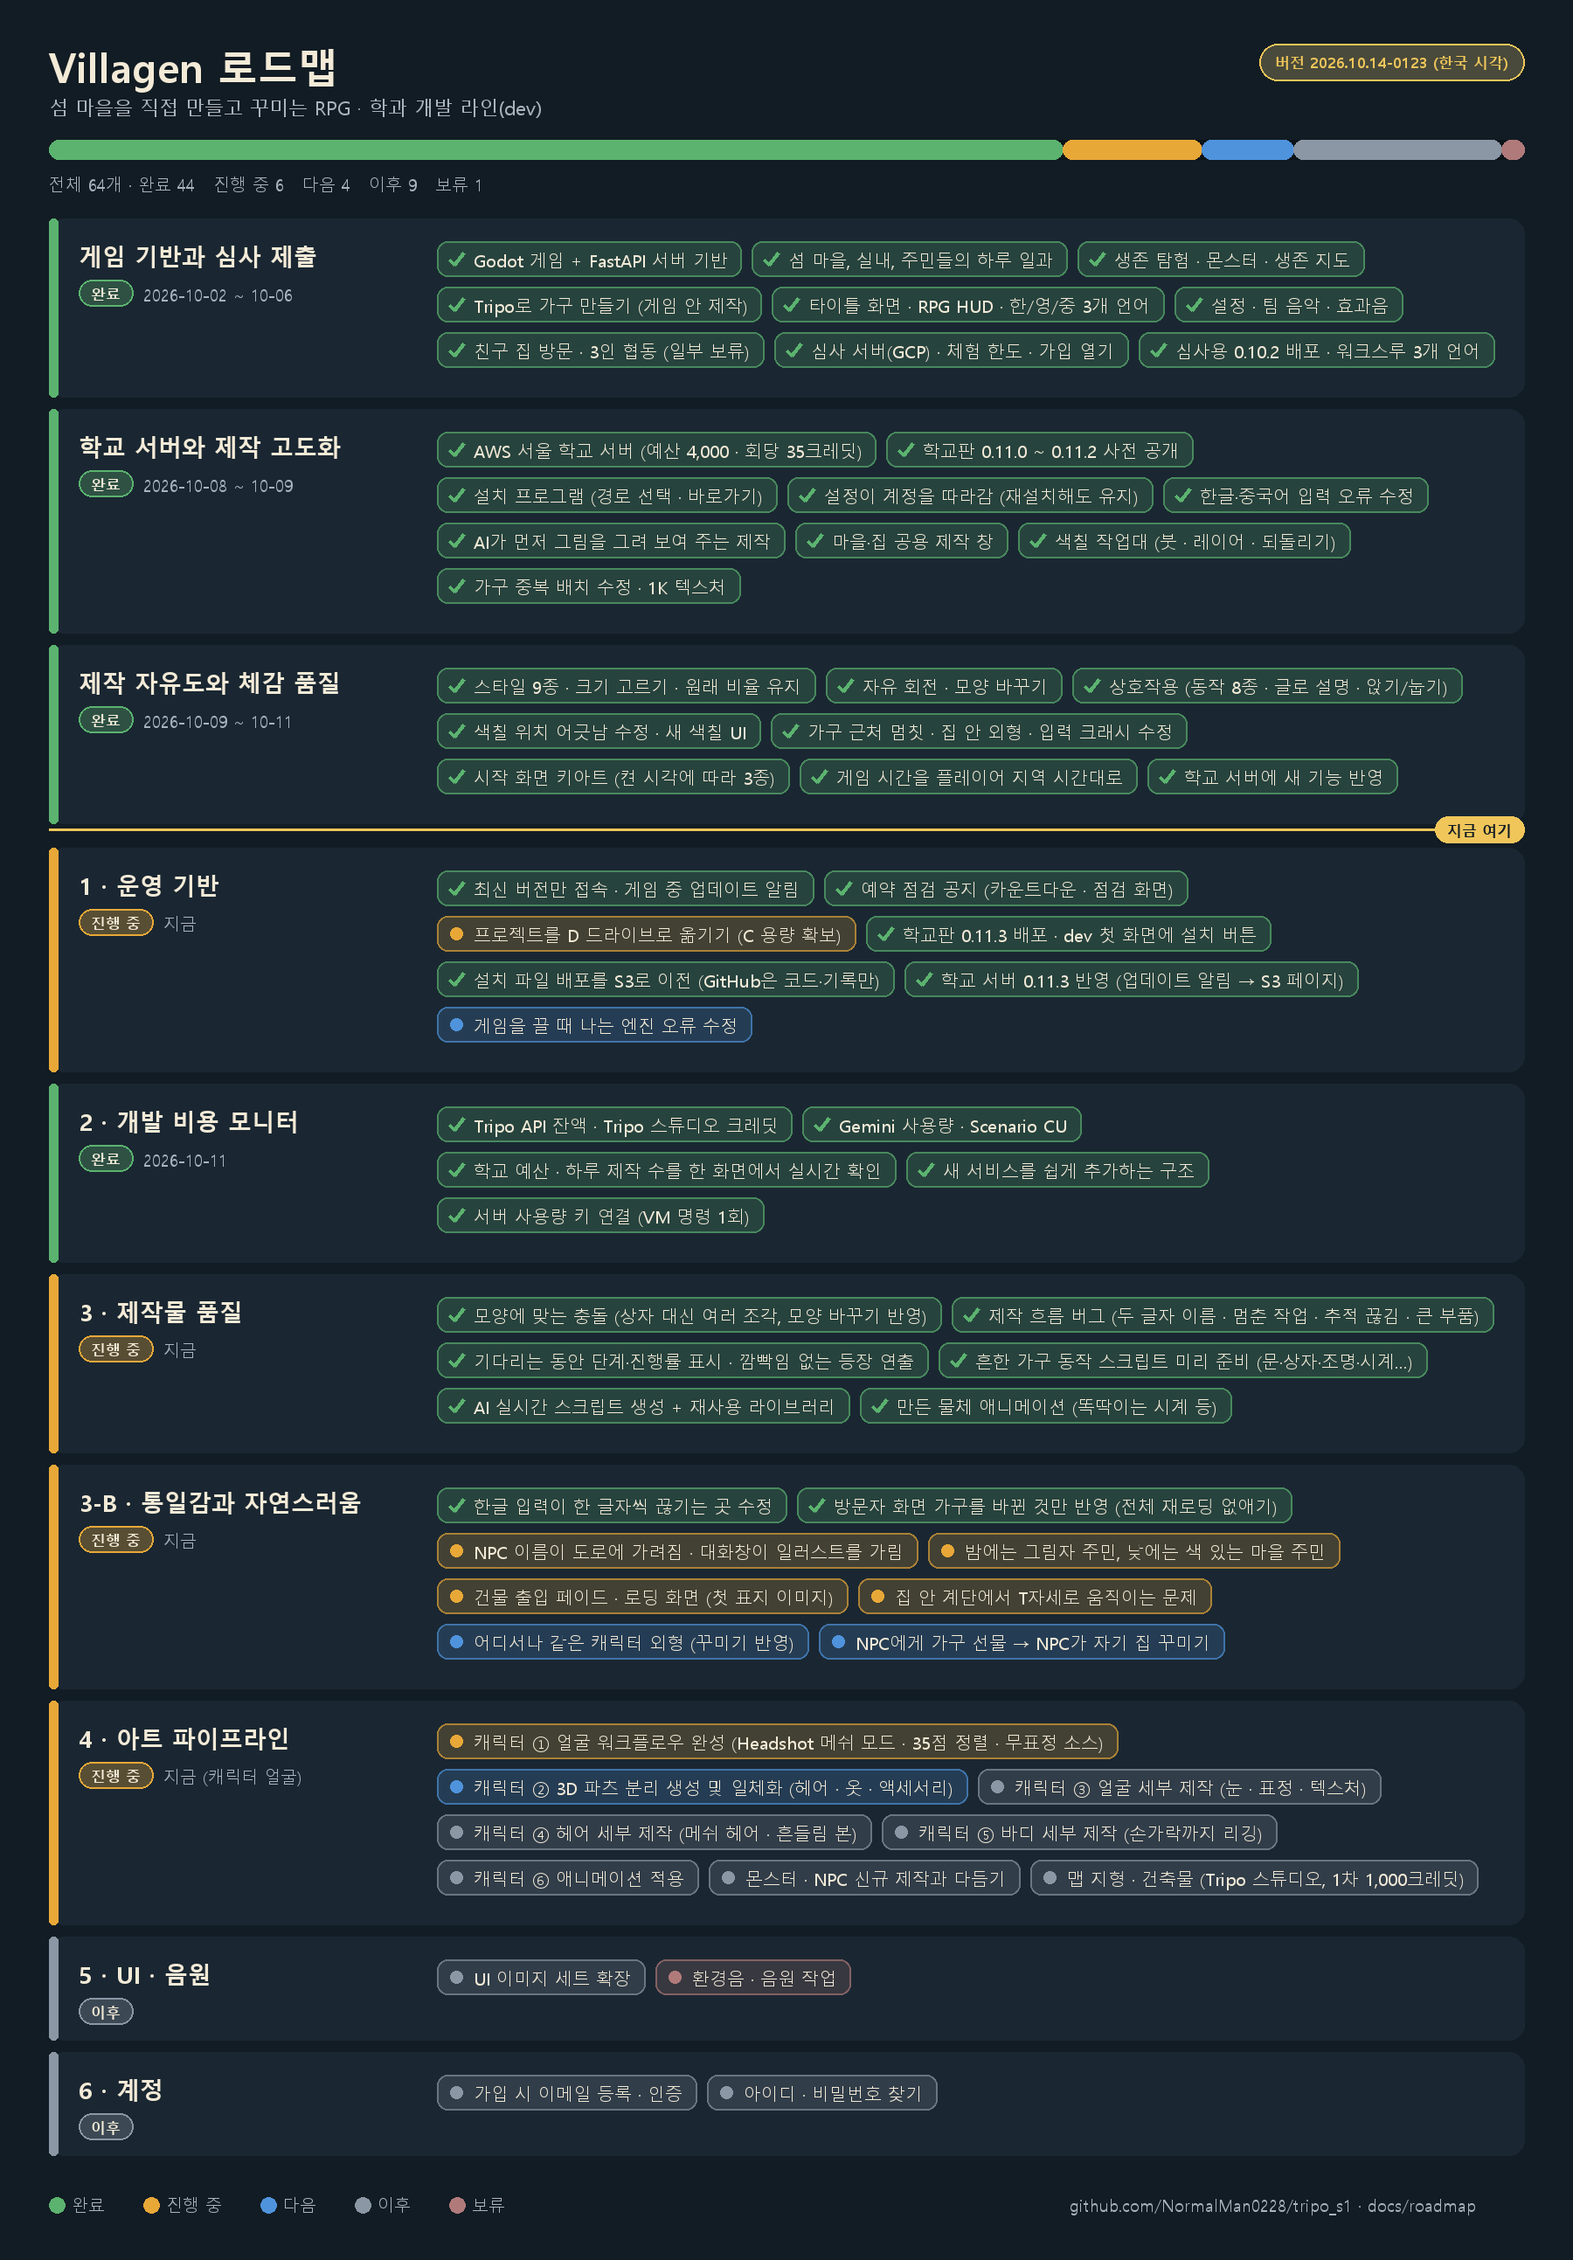
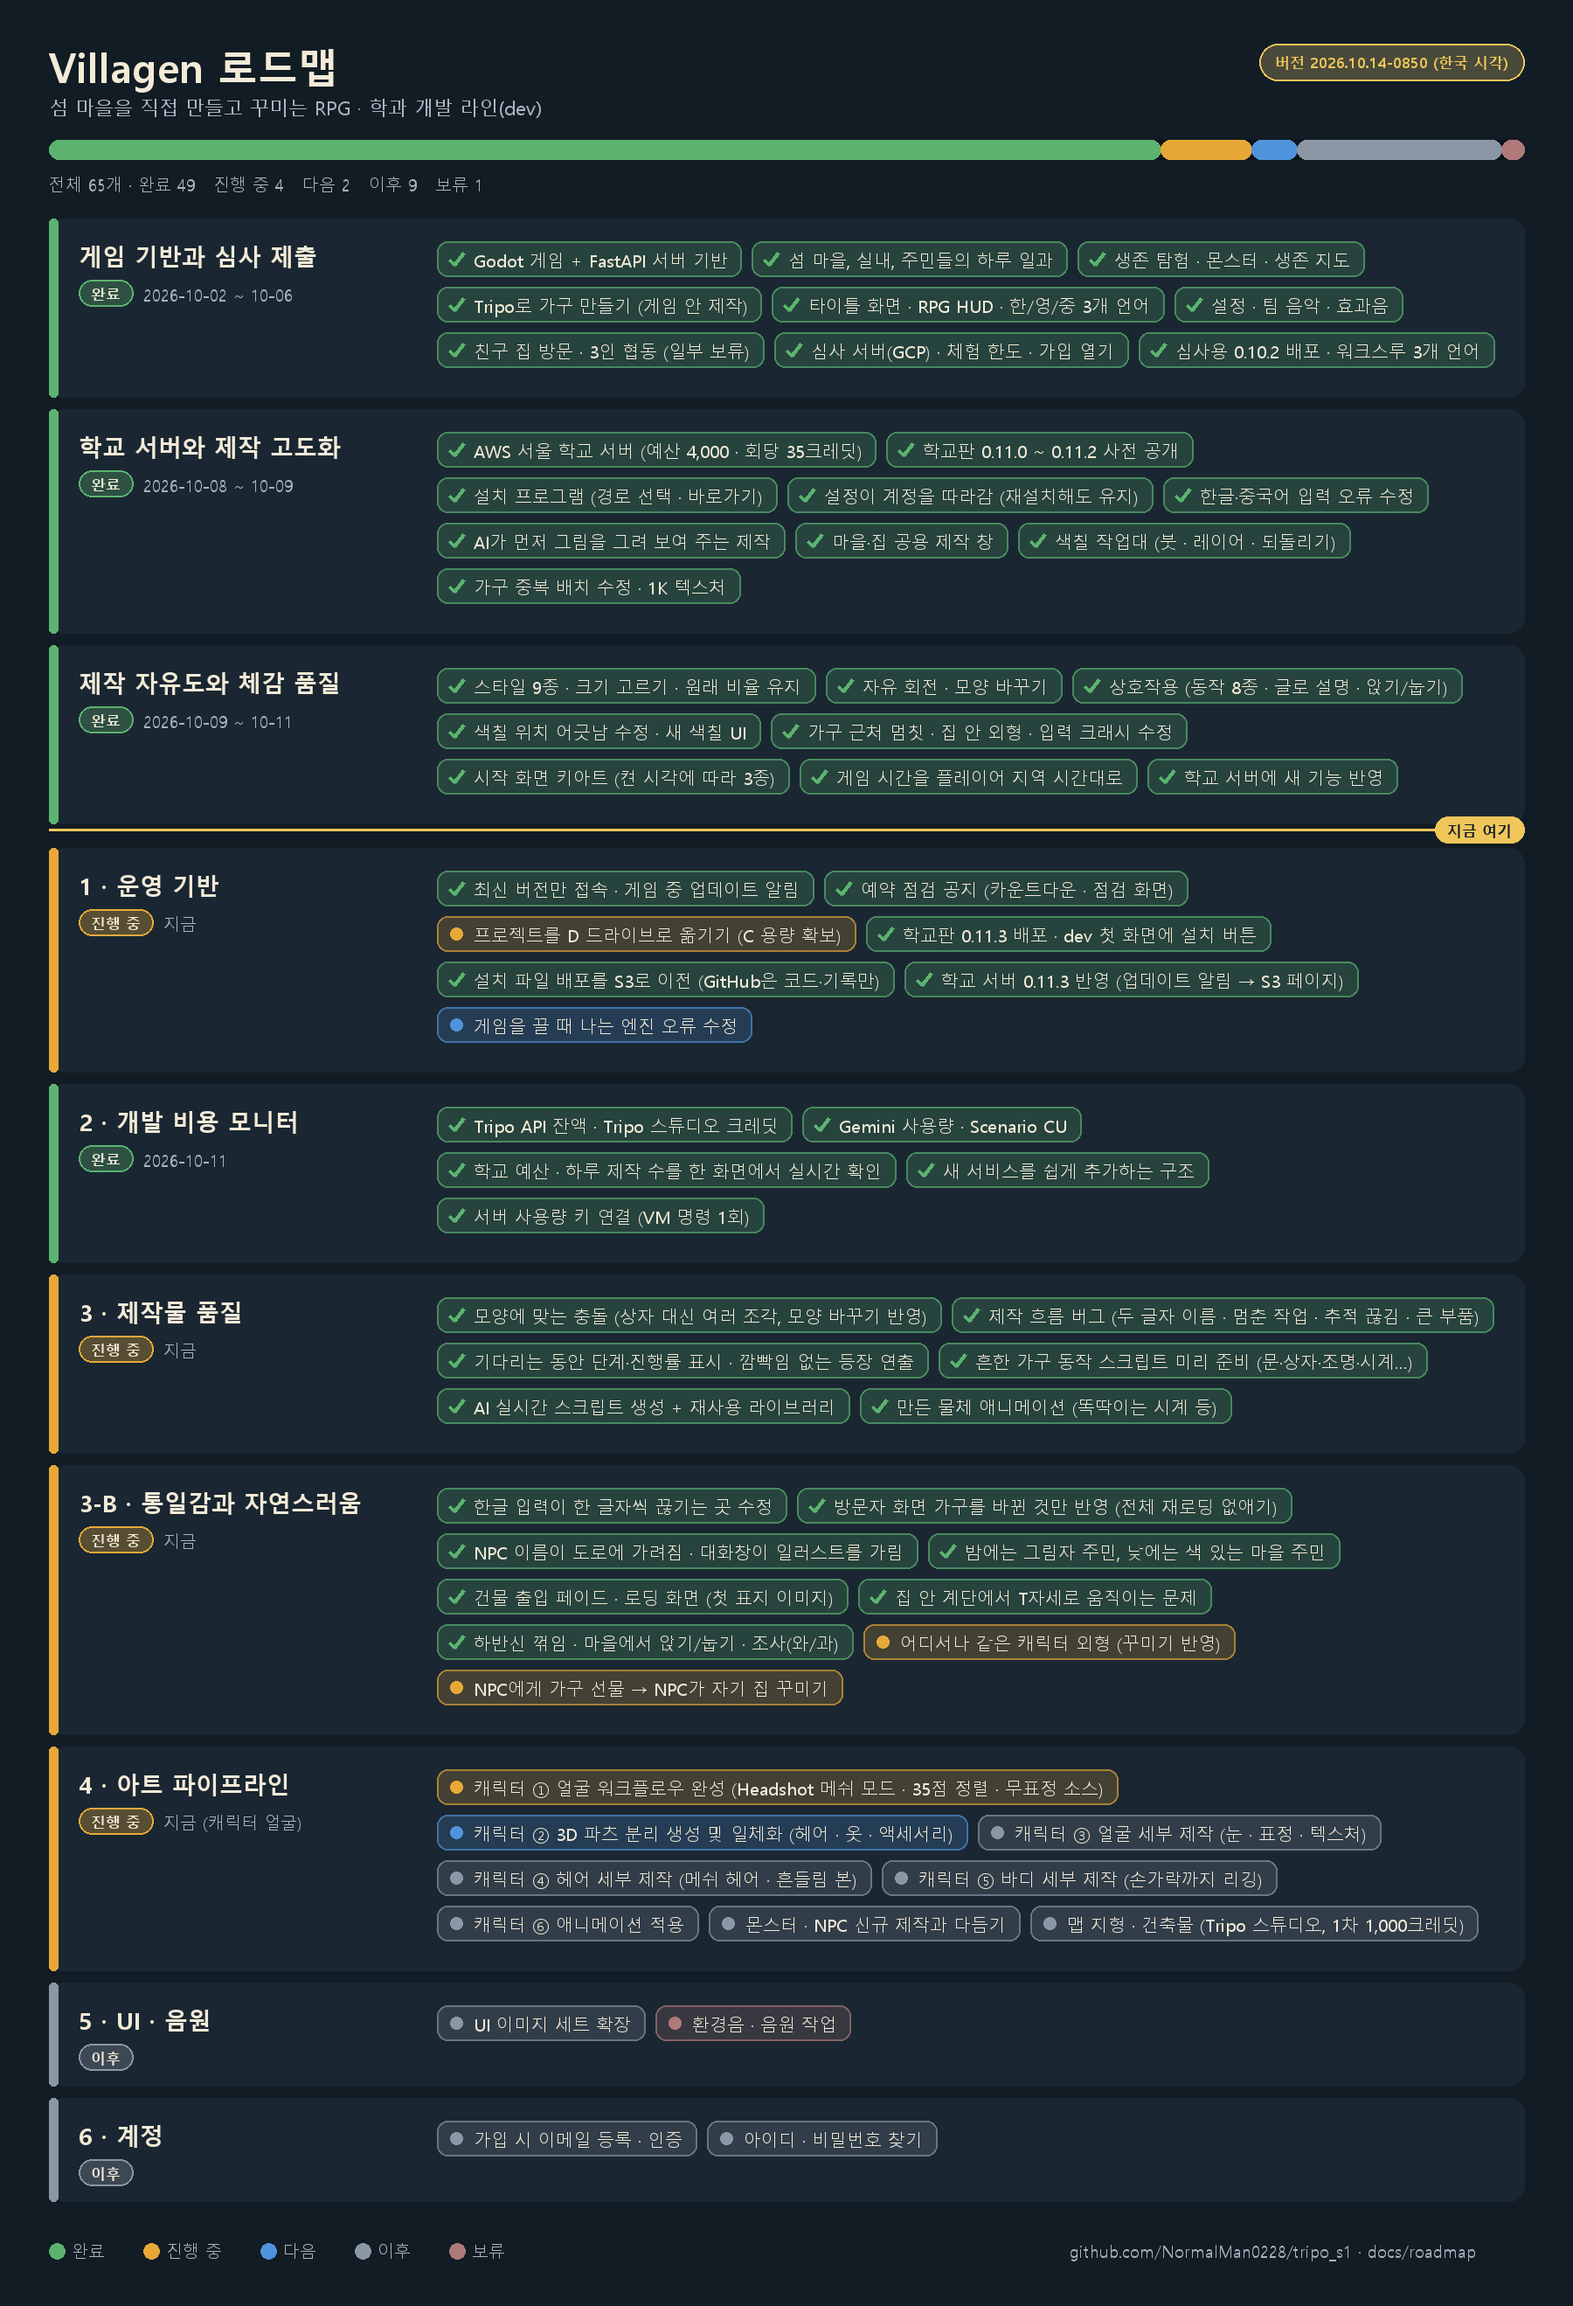
Change log and roadmap: world polish, clocks and village seats done

diff --git a/docs/roadmap/ROADMAP_KO.md b/docs/roadmap/ROADMAP_KO.md
@@ -1,8 +1,8 @@
 # Villagen 로드맵
 
-**버전 2026.10.14-0123** (한국 시각) · 섬 마을을 직접 만들고 꾸미는 RPG · 학과 개발 라인(dev)
+**버전 2026.10.14-0850** (한국 시각) · 섬 마을을 직접 만들고 꾸미는 RPG · 학과 개발 라인(dev)
 
-> 그림으로 보기: [VISUAL_KO.md](VISUAL_KO.md) · 전체 64개 중 완료 44 · 진행 중 6 · 다음 4 · 이후 9 · 보류 1
+> 그림으로 보기: [VISUAL_KO.md](VISUAL_KO.md) · 전체 65개 중 완료 49 · 진행 중 4 · 다음 2 · 이후 9 · 보류 1
 
 - [학교 서버 운영 안내](../SCHOOL_SERVER_KO.txt)
 - [제작 품질표](../CRAFT_QUALITY_KO.md)
@@ -73,12 +73,13 @@
 
 - [x] 한글 입력이 한 글자씩 끊기는 곳 수정 (10-14)
 - [x] 방문자 화면 가구를 바뀐 것만 반영 (전체 재로딩 없애기) (10-14)
-- [ ] NPC 이름이 도로에 가려짐 · 대화창이 일러스트를 가림 · *진행 중*
-- [ ] 밤에는 그림자 주민, 낮에는 색 있는 마을 주민 · *진행 중*
-- [ ] 건물 출입 페이드 · 로딩 화면 (첫 표지 이미지) · *진행 중*
-- [ ] 집 안 계단에서 T자세로 움직이는 문제 · *진행 중*
-- [ ] 어디서나 같은 캐릭터 외형 (꾸미기 반영) · *다음*
-- [ ] NPC에게 가구 선물 → NPC가 자기 집 꾸미기 · *다음*
+- [x] NPC 이름이 도로에 가려짐 · 대화창이 일러스트를 가림 (10-14)
+- [x] 밤에는 그림자 주민, 낮에는 색 있는 마을 주민 (10-14)
+- [x] 건물 출입 페이드 · 로딩 화면 (첫 표지 이미지) (10-14)
+- [x] 집 안 계단에서 T자세로 움직이는 문제 (10-14)
+- [x] 하반신 꺾임 · 마을에서 앉기/눕기 · 조사(와/과) (10-14)
+- [ ] 어디서나 같은 캐릭터 외형 (꾸미기 반영) · *진행 중*
+- [ ] NPC에게 가구 선물 → NPC가 자기 집 꾸미기 · *진행 중*
 
 ## 4 · 아트 파이프라인  `진행 중` · 지금 (캐릭터 얼굴)
 
@@ -105,6 +106,7 @@
 
 | 버전 (한국 시각) | 바뀐 점 |
 |---|---|
+| 2026.10.14-0850 | 월드 다듬기(NPC 이름·대화창·낮/밤 주민·페이드·로딩·계단·걸음)와 시계·마을 앉기 완료 |
 | 2026.10.14-0123 | 물건 종류별 동작 22종, 실제 시각 시계, AI 동작 재사용 완료 |
 | 2026.10.14-0056 | 한글 입력 끊김과 방문자 가구 재로딩 해결 |
 | 2026.10.14-0033 | 제작 흐름 버그 6개와 단계 표시·등장 연출 완료 |

diff --git a/docs/roadmap/VISUAL_KO.md b/docs/roadmap/VISUAL_KO.md
@@ -1,7 +1,7 @@
 # Villagen 로드맵 (그림)
 
-**버전 2026.10.14-0123** (한국 시각) · 글로 보기: [ROADMAP_KO.md](ROADMAP_KO.md)
+**버전 2026.10.14-0850** (한국 시각) · 글로 보기: [ROADMAP_KO.md](ROADMAP_KO.md)
 
-![Villagen 로드맵 2026.10.14-0123](roadmap.png)
+![Villagen 로드맵 2026.10.14-0850](roadmap.png)
 
 초록 완료 · 주황 진행 중 · 파랑 다음 · 회색 이후 · 갈색 보류

diff --git a/docs/roadmap/README.md b/docs/roadmap/README.md
@@ -1,8 +1,8 @@
 # Villagen 로드맵
 
-**버전 2026.10.14-0123** (한국 시각)
+**버전 2026.10.14-0850** (한국 시각)
 
 - [그림으로 보기](VISUAL_KO.md)
-- [글로 보기](ROADMAP_KO.md) — 완료 44 · 진행 중 6 · 다음 4 · 이후 9
+- [글로 보기](ROADMAP_KO.md) — 완료 49 · 진행 중 4 · 다음 2 · 이후 9
 
 ![로드맵](roadmap.png)
